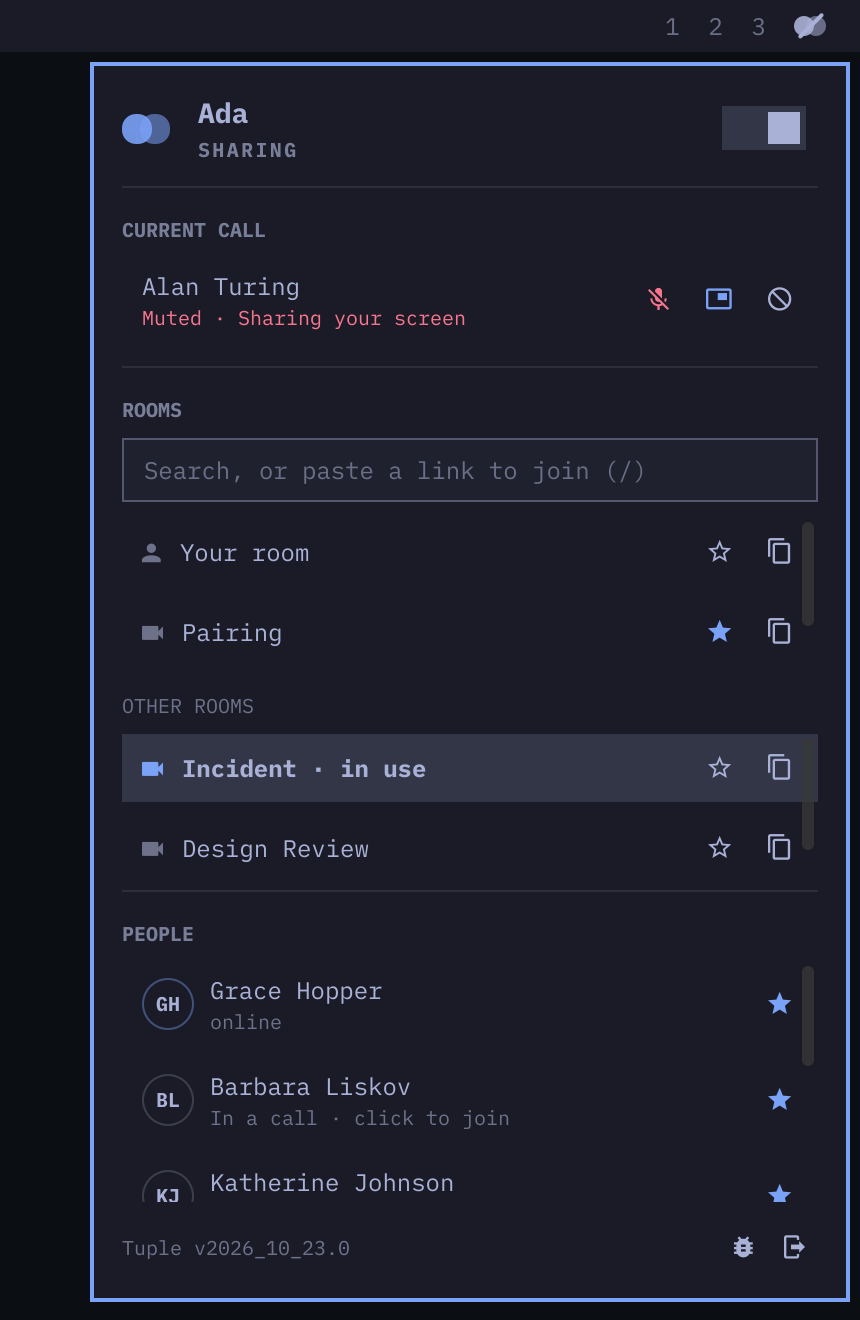
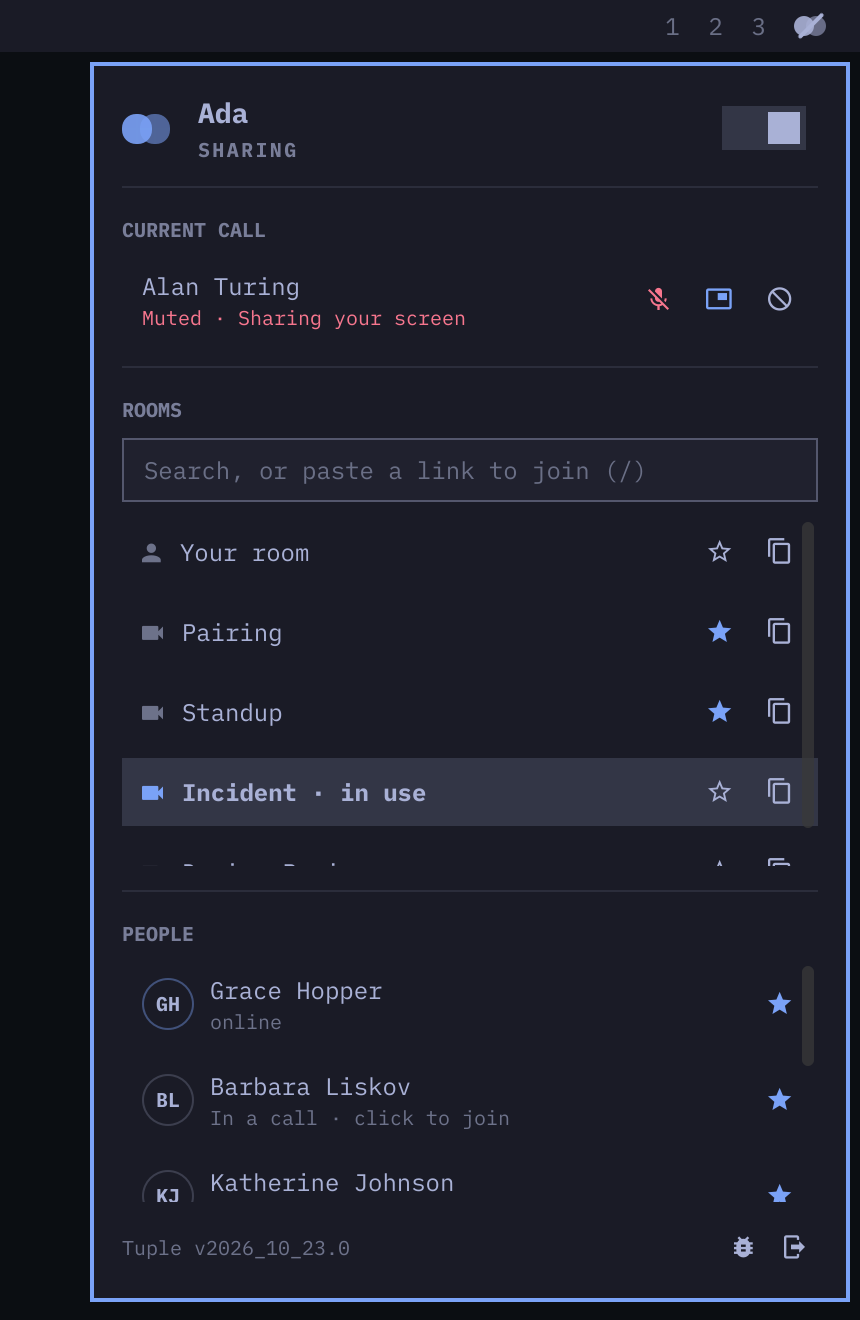
Show rooms as one list, like people
Your room, then favorites A to Z, then every other room with rooms in use
first, in a single list that scrolls on its own and is capped at about four
and a half rows. Tuple's client doesn't record when a room was favorited,
so favorites sort by name.

Images re-rendered for the single list.

Claude-Session: https://claude.ai/code/session_018VLFLgw9fDQC2b7icuXN5Z

Changed region(s): [[0.1209, 0.528, 0.9372, 0.6523]]

diff --git a/Panel.qml b/Panel.qml
@@ -31,15 +31,10 @@ Panel {
   // that has not connected yet is treated as ringing.
   readonly property bool ringing: TupleStore.inCall && !TupleStore.connected && TupleStore.calling === ""
   readonly property var rooms: ready ? Model.visibleRooms(TupleStore.rooms, search) : []
-  // Your room and favorites, then every other room, each in its own capped
-  // list so neither can push People off the panel.
-  readonly property var favRooms: rooms.filter(function(r) { return r.personal || r.favorite })
-  readonly property var otherRooms: rooms.filter(function(r) { return !r.personal && !r.favorite })
   readonly property var people: ready ? Model.visibleContacts(TupleStore.contacts, search) : []
   property string search: ""
 
   property string focusSection: "header"
-  property int favRoomIndex: 0
   property int roomIndex: 0
   property int personIndex: 0
   property bool cursorActive: false
@@ -61,14 +56,13 @@ Panel {
   function sectionOrder() {
     var order = ["header"]
     if (TupleStore.inCall) order.push("call")
-    if (favRooms.length > 0) order.push("favRooms")
-    if (otherRooms.length > 0) order.push("rooms")
+    if (rooms.length > 0) order.push("rooms")
     if (people.length > 0) order.push("people")
     return order
   }
 
   function sectionList(section) {
-    return section === "favRooms" ? favRooms : (section === "rooms" ? otherRooms : (section === "people" ? people : null))
+    return section === "rooms" ? rooms : (section === "people" ? people : null)
   }
 
   function sectionLength(section) {
@@ -77,12 +71,11 @@ Panel {
   }
 
   function sectionIndex(section) {
-    return section === "favRooms" ? favRoomIndex : (section === "rooms" ? roomIndex : (section === "people" ? personIndex : 0))
+    return section === "rooms" ? roomIndex : (section === "people" ? personIndex : 0)
   }
 
   function setSectionIndex(section, value) {
-    if (section === "favRooms") favRoomIndex = value
-    else if (section === "rooms") roomIndex = value
+    if (section === "rooms") roomIndex = value
     else if (section === "people") personIndex = value
   }
 
@@ -117,8 +110,8 @@ Panel {
     } else if (focusSection === "call") {
       if (root.ringing) TupleStore.accept()
       else TupleStore.toggleMute()
-    } else if (focusSection === "favRooms" || focusSection === "rooms") {
-      TupleStore.joinRoom(sectionList(focusSection)[sectionIndex(focusSection)])
+    } else if (focusSection === "rooms") {
+      TupleStore.joinRoom(rooms[roomIndex])
     } else if (focusSection === "people") {
       TupleStore.callPerson(people[personIndex])
     }
@@ -131,8 +124,7 @@ Panel {
   }
 
   function scrollCursorIntoView() {
-    var view = focusSection === "favRooms" ? favRoomList : (focusSection === "rooms" ? otherRoomList
-      : (focusSection === "people" ? peopleList : null))
+    var view = focusSection === "rooms" ? roomList : (focusSection === "people" ? peopleList : null)
     if (view) view.positionViewAtIndex(sectionIndex(focusSection), ListView.Contain)
   }
 
@@ -141,14 +133,12 @@ Panel {
 
   onOpenedChanged: if (opened) {
     cursorActive = false
-    favRoomList.positionViewAtBeginning()
-    otherRoomList.positionViewAtBeginning()
+    roomList.positionViewAtBeginning()
     peopleList.positionViewAtBeginning()
     if (!TupleStore.installed) TupleStore.probe()
     Qt.callLater(function() { keyCatcher.forceActiveFocus() })
   }
-  onFavRoomsChanged: ensureCursor()
-  onOtherRoomsChanged: ensureCursor()
+  onRoomsChanged: ensureCursor()
   onPeopleChanged: ensureCursor()
 
   IpcHandler {
@@ -499,8 +489,8 @@ Panel {
           ColumnLayout {
             visible: root.ready
             Layout.fillWidth: true
-            // Layouts only resize fillHeight items; the room lists' own
-            // maximums stop this section from growing past them.
+            // Layouts only resize fillHeight items; the room list's own
+            // maximum stops this section from growing past it.
             Layout.fillHeight: true
             spacing: Style.space(8)
 
@@ -533,25 +523,11 @@ Panel {
               wrapMode: Text.WordWrap
             }
 
+            // Your room, then favorites A to Z, then the rest: one list that
+            // scrolls on its own, like People.
             RoomList {
-              id: favRoomList
-              model: root.favRooms
-              section: "favRooms"
-            }
-
-            Text {
-              visible: root.favRooms.length > 0 && root.otherRooms.length > 0
-              Layout.minimumHeight: implicitHeight
-              text: "OTHER ROOMS"
-              color: root.dim
-              font.family: root.fontFamily
-              font.pixelSize: Style.font.caption
-            }
-
-            RoomList {
-              id: otherRoomList
-              model: root.otherRooms
-              section: "rooms"
+              id: roomList
+              model: root.rooms
             }
           }
 
@@ -666,17 +642,16 @@ Panel {
 
   // ------------------------------------------------------------ components
 
-  // Up to three and a half rows, so a cut-off row shows there is more to
+  // Up to four and a half rows, so a cut-off row shows there is more to
   // scroll; the layout may squeeze it to one and a half to keep the footer.
   component RoomList: ListView {
     id: list
-    property string section: "rooms"
     readonly property real pitch: count > 0 ? (contentHeight + spacing) / count : 0
     visible: count > 0
     Layout.fillWidth: true
     Layout.fillHeight: true
     Layout.preferredHeight: Layout.maximumHeight
-    Layout.maximumHeight: Math.min(contentHeight, pitch * 3.5 - spacing)
+    Layout.maximumHeight: Math.min(contentHeight, pitch * 4.5 - spacing)
     Layout.minimumHeight: Math.min(contentHeight, pitch * 1.5 - spacing)
     clip: true
     spacing: Style.space(6)
@@ -690,7 +665,6 @@ Panel {
       width: ListView.view.width
       room: modelData
       rowIndex: index
-      section: ListView.view.section
     }
   }
 
@@ -698,9 +672,8 @@ Panel {
     id: roomRow
     property var room: null
     property int rowIndex: 0
-    property string section: "rooms"
 
-    hasCursor: root.cursorActive && root.focusSection === section && root.sectionIndex(section) === rowIndex
+    hasCursor: root.cursorActive && root.focusSection === "rooms" && root.roomIndex === rowIndex
     current: room && room.active
     foreground: root.foreground
     fill: root.hoverFill
@@ -711,7 +684,7 @@ Panel {
       anchors.fill: parent
       hoverEnabled: true
       cursorShape: Qt.PointingHandCursor
-      onEntered: root.setCursor(roomRow.section, roomRow.rowIndex)
+      onEntered: root.setCursor("rooms", roomRow.rowIndex)
       onClicked: TupleStore.joinRoom(roomRow.room)
     }
 

diff --git a/README.md b/README.md
@@ -8,9 +8,8 @@ rooms, your people, and call controls, one click from the bar.
 
 ## Features
 
-- **Rooms**: your room and favorites in one list, every other room in a second
-  list below it (rooms in use first). Each list scrolls on its own, so neither
-  grows past a few rows. One click to join.
+- **Rooms**: one scrolling list with your room first, then favorites A to Z,
+  then rooms in use and everything else. One click to join.
 - **People**: everyone, with favorites and anyone online or in a call at the
   top. Click to call them, or to join the call they're in.
 - **Search**: one field finds any room or person. Paste a call link into it
